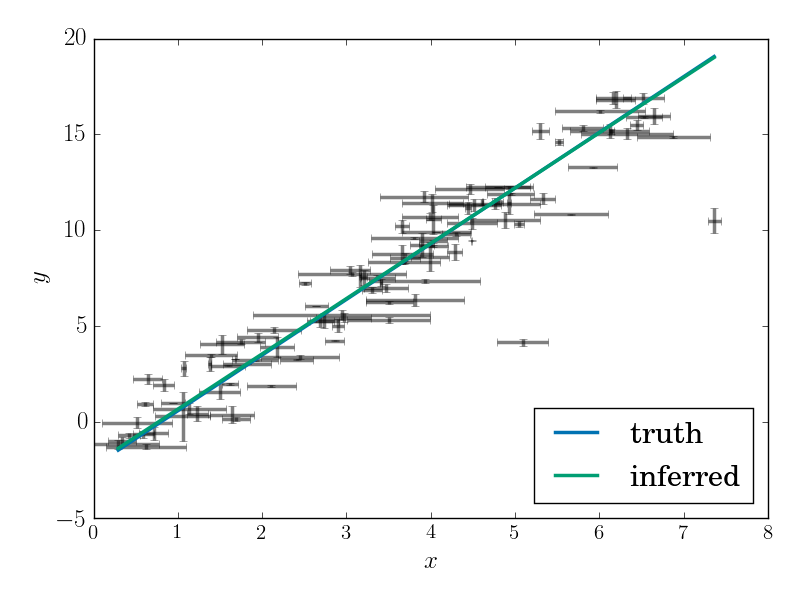
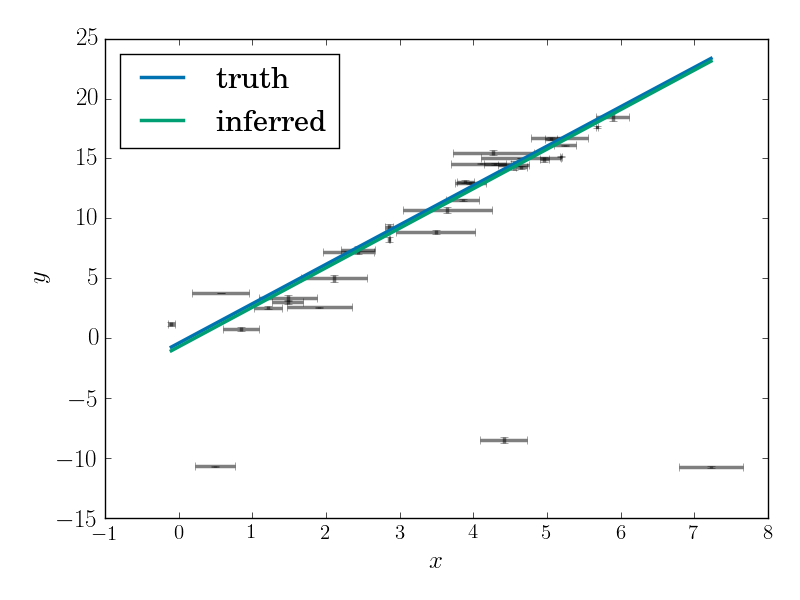
minor changes and added triangle plot figure

diff --git a/linear_bayes/fitter.py b/linear_bayes/fitter.py
@@ -251,22 +251,25 @@ def chain_results(chain,burnin=None):
     return np.array(map(lambda v: [v[1],v[2]-v[1],v[1]-v[0]],\
                 zip(*np.percentile(chain[:,1:],[16,50,84],axis=0))))
 
-def fit_data(data,priorlimits=[-10.,10.,-10.,10.,0.001,100.,-10.,10.,0.001,1000.],nwalkers=50,nsteps=5000\
+def fit_data(data,guess=None,priorlimits=[-10.,10.,-10.,10.,0.001,100.,-10.,10.,0.001,1000.],nwalkers=50,nsteps=5000\
     ,nproc=8,outfile="line_fit_chain",make_cornerplot=True,truths=None,delete_output=True):
     """Fit the model to data using emcee. An optimization routine from scipy is first used to 
     Args:
         (1) np.ndarray, data. Should have shape (N,4) (if no covariances on \
             errors) or (N,5) (if covariant errors). Should be in the order \
             (x,y,dx,dy) or (x,y,dx,dy,dxy).
-        (2) np.ndarray, priorlimits. Upper and lower values for each of the model parameters \
+        (2) np.ndarray or list, guess. A guess of the 6 model parameters. If not included \
+            then a fixed starting guess will be used (which may well be inappropriate and \
+            break everything!)
+        (3) np.ndarray, priorlimits. Upper and lower values for each of the model parameters \
             (except the outlier fraction which has a flat prior between 0 and 1). 
-        (3) nwalkers (= 50), the number of emcee walkers to use in the fit.
-        (4) nsteps (= 5000), the number of steps each walker should take in the MCMC.
-        (5) nproc (= 8), the number of threads to use for parallelisation.
-        (6) outfile (= "line_fit.dat"), the file to which the points in the MCMC chain will be written.
-        (7) make_cornerplot (= True), make a corner plot and save it if True.
-        (8) truths (= None), if you know the right answer, plot it on the corner plot.
-        (9) delete_output (= True), if True, delete the text file that stores the chain. If not, the results \
+        (4) nwalkers (= 50), the number of emcee walkers to use in the fit.
+        (5) nsteps (= 5000), the number of steps each walker should take in the MCMC.
+        (6) nproc (= 8), the number of threads to use for parallelisation.
+        (7) outfile (= "line_fit.dat"), the file to which the points in the MCMC chain will be written.
+        (8) make_cornerplot (= True), make a corner plot and save it if True.
+        (9) truths (= None), if you know the right answer, plot it on the corner plot.
+        (10) delete_output (= True), if True, delete the text file that stores the chain. If not, the results \
             will be saved for you to analyse (e.g. with a corner plot).
     Returns:
         (1) results, for each parameter a tuple is returned (best_fit, +err, -err) (assuming 20 per cent burn-in time), \
@@ -274,17 +277,19 @@ def fit_data(data,priorlimits=[-10.,10.,-10.,10.,0.001,100.,-10.,10.,0.001,1000.
     """
     #first make some guesses at the values for things, this could be massively improved and will probably break sometimes.
     x,y = data[:,:2].T
-    mguess = 2.
-    bguess = 0.
-    sig_guess = 2.
-    y_outlier_guess = 0.
-    sig_outlier_guess = 30.
-    pguess = [mguess,bguess,sig_guess,y_outlier_guess,sig_outlier_guess,0.01]
+    if guess is None:
+        #not recommended as will probably break!
+        mguess = 2.
+        bguess = 0.
+        sig_guess = 2.
+        y_outlier_guess = 0.
+        sig_outlier_guess = 30.
+        guess = [mguess,bguess,sig_guess,y_outlier_guess,sig_outlier_guess,0.01]
     #now use a minimization routine to find the max-posterior point
     def minfun(params):
         return -full_posterior(params,data,priorlimits)
     print "Running optimization..."
-    pstart = minimize(minfun,pguess,method="Nelder-Mead",options={'maxfev':1e6}).x
+    pstart = minimize(minfun,guess,method="Nelder-Mead",options={'maxfev':1e6}).x
     print "found point {}".format(pstart)
     #make a blob at the max posterior point
     p0 = emcee.utils.sample_ball(pstart,0.01*np.ones_like(pstart),size=nwalkers)

diff --git a/README.md b/README.md
@@ -14,12 +14,12 @@ Example code:
 
 ```python
 import matplotlib.pyplot as plt
-import numpy as numpy
+import numpy as np
 import linear_bayes
 
 #generate some mock data and fit it
 data,true_parameters = linear_bayes.mock_data()
-results = linear_bayes.fit_data(data,outfile="mcmc_output",make_cornerplot=False) 
+results = linear_bayes.fit_data(data,guess=true_parameters,outfile="trial_fit",make_cornerplot=True,truths=true_parameters) 
 
 #make a plot of the inference vs. data
 x = np.linspace(np.min(data[:,0]),np.max(data[:,0]))
@@ -30,7 +30,8 @@ ax.plot(x,true_parameters[0]*x+true_parameters[1],label="truth")
 ax.plot(x,results[:,0][0]*x+results[:,0][1],label="inferred")
 ax.set_xlabel("$x$")
 ax.set_ylabel("$y$")
-ax.legend(loc='lower right')
+ax.legend(loc='upper left')
 ```
 
 ![Alt text](example.png?raw=true)
+![Alt text](example_triangle.png?raw=true)
